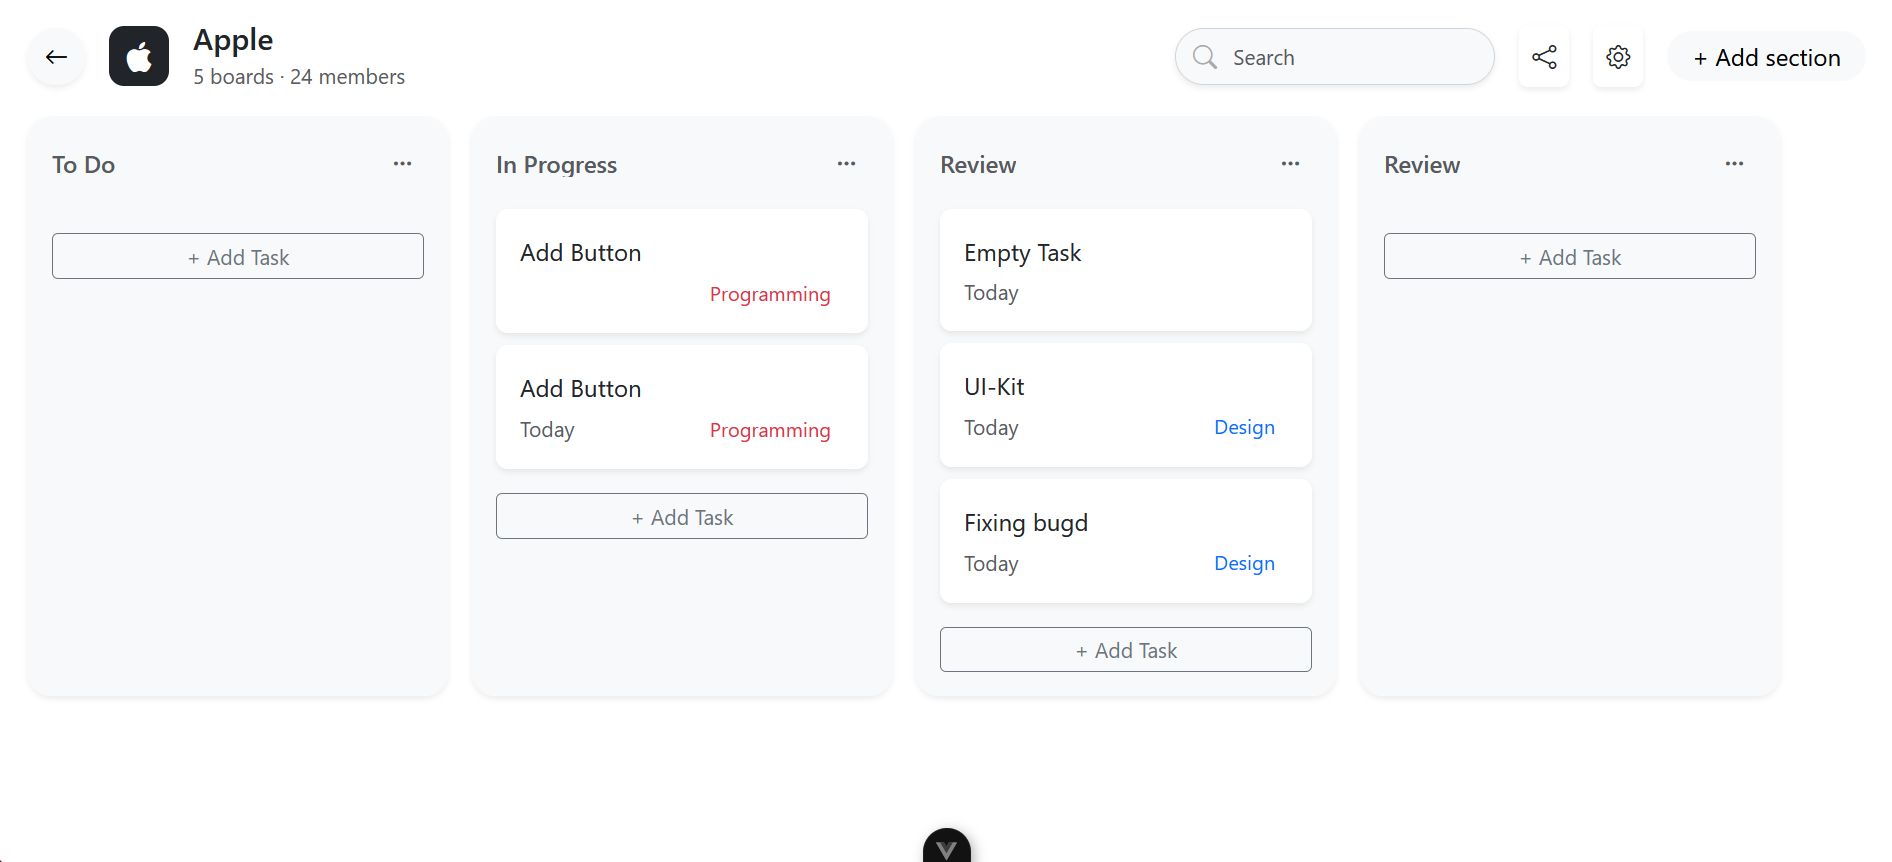
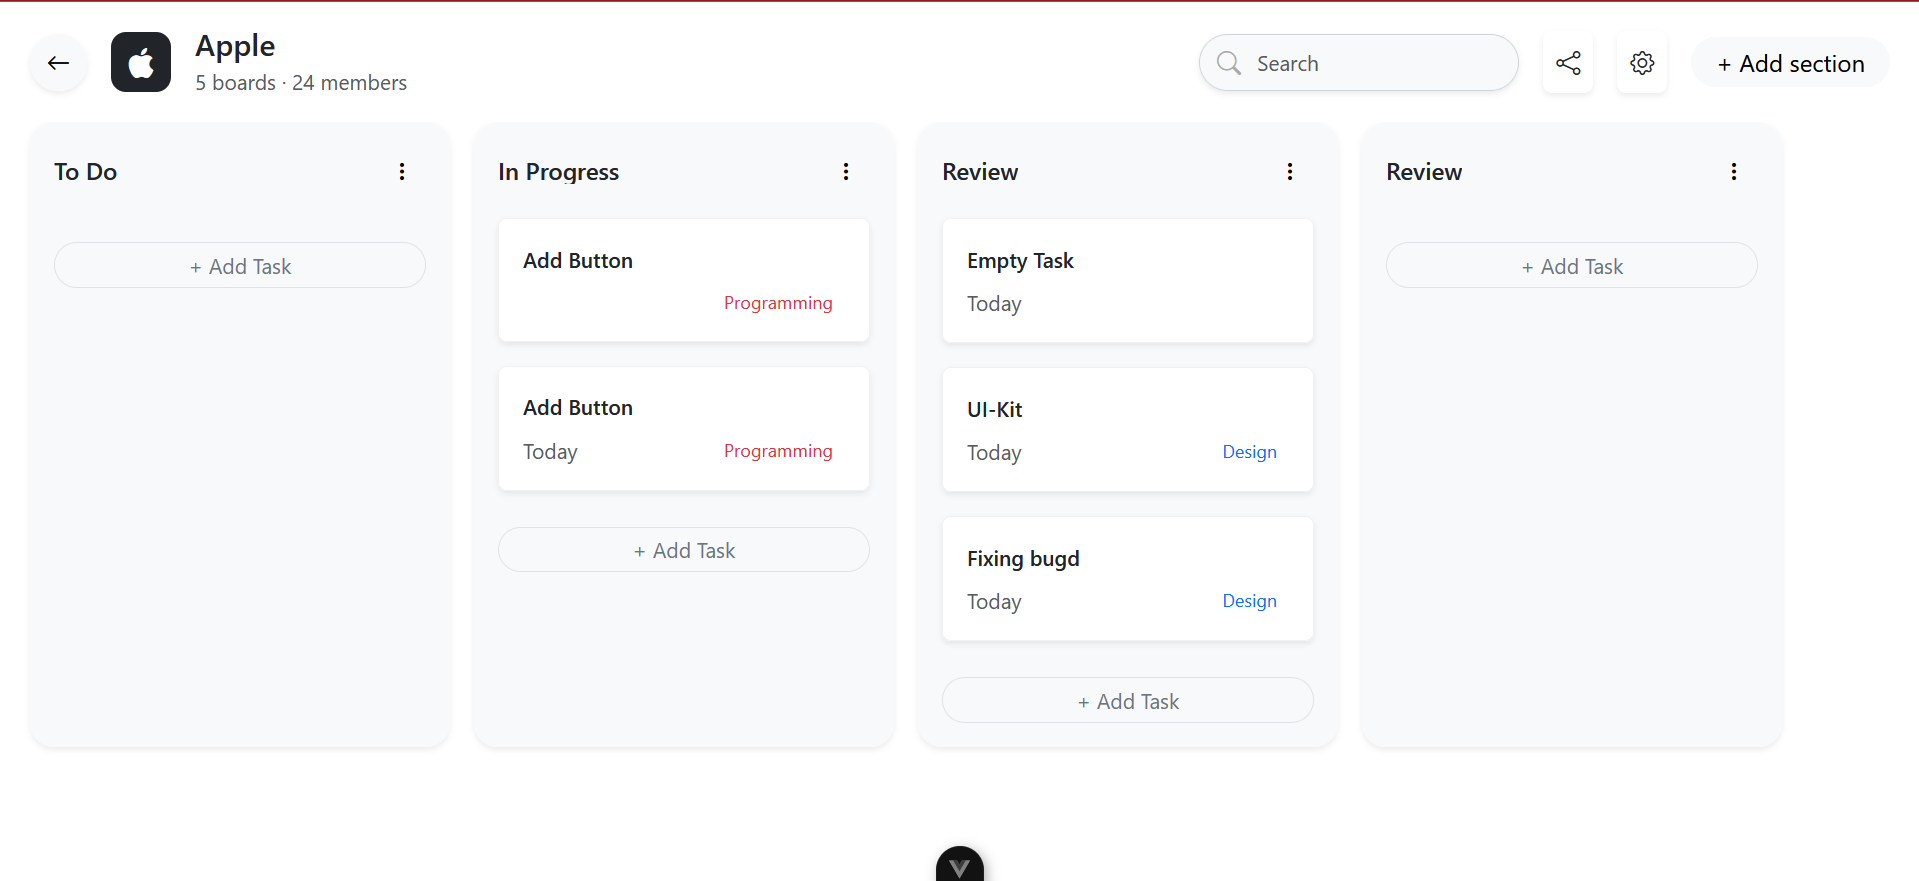
Refactor Board and Section components for improved styling and layout; enhance Task component with better text visibility and hover effects

diff --git a/vue-kanban-app/src/components/Section.vue b/vue-kanban-app/src/components/Section.vue
@@ -1,25 +1,23 @@
 <template>
 	<div
-		class="bg-light p-3 rounded-4 shadow-sm"
+		class="section-wrapper bg-light p-3 rounded-4 shadow-sm d-flex flex-column"
 		style="min-width: 280px; max-width: 350px"
 	>
 		<!-- Header -->
-		<div
-			class="d-flex justify-content-between align-items-center mb-3 text-muted"
-		>
-			<h6 class="mb-0 text-capitalize fw-semibold text-truncate">
+		<div class="d-flex justify-content-between align-items-center mb-3">
+			<h6
+				class="mb-0 text-capitalize fw-semibold text-truncate text-dark"
+			>
 				{{ section.title }}
 			</h6>
-			<div class="d-flex align-items-center gap-1 text-muted">
-				<button
-					class="btn btn-sm btn-light text-muted"
-					style="width: 30px; height: 30px"
-					title="Section Options"
-					@click="showModal = true"
-				>
-					<i class="bi bi-three-dots"></i>
-				</button>
-			</div>
+			<button
+				class="btn btn-sm btn-light rounded-circle"
+				style="width: 32px; height: 32px"
+				title="Section Options"
+				@click="showModal = true"
+			>
+				<i class="bi bi-three-dots-vertical"></i>
+			</button>
 		</div>
 
 		<!-- Task List -->
@@ -30,7 +28,7 @@
 		<!-- Add Task Form -->
 		<div
 			v-if="addingTask"
-			class="d-flex flex-column gap-2 mt-3 bg-white p-2 border rounded shadow-sm"
+			class="bg-light p-3 mt-3 rounded-3 shadow-sm d-flex flex-column gap-2"
 		>
 			<input
 				type="text"
@@ -74,9 +72,11 @@
 				</button>
 			</div>
 		</div>
+
+		<!-- Add Task Button -->
 		<button
 			v-else
-			class="btn btn-outline-secondary btn-sm w-100 mt-3"
+			class="btn btn-outline-secondary btn-sm mt-3 rounded-pill"
 			@click="addingTask = true"
 		>
 			+ Add Task
@@ -246,10 +246,34 @@ export default {
 </script>
 
 <style scoped>
+.section-wrapper {
+	background-color: #f8f9fa;
+	transition: box-shadow 0.2s ease;
+}
+
+.section-wrapper:hover {
+	box-shadow: 0 0 0 2px rgba(0, 0, 0, 0.03), 0 2px 6px rgba(0, 0, 0, 0.06);
+}
+
 .modal {
 	z-index: 1050;
 }
+
 .modal-backdrop {
 	z-index: 1040;
+}
+
+button.btn-outline-secondary {
+	border-color: #dee2e6;
+}
+
+button.btn-outline-secondary:hover {
+	background-color: #f1f3f5;
+	border-color: #ced4da;
+}
+
+input,
+textarea {
+	border-radius: 0.5rem;
 }
 </style>

diff --git a/vue-kanban-app/src/components/Task.vue b/vue-kanban-app/src/components/Task.vue
@@ -1,13 +1,14 @@
 <template>
-	<div class="task-card bg-white rounded-3 shadow-sm p-3">
-		<p class="mb-1 fw-medium">{{ task.title }}</p>
+	<div class="task-card bg-white rounded-2 shadow-sm p-3 mb-2">
+		<p class="mb-2 fw-semibold text-dark text-sm">{{ task.title }}</p>
 		<div class="d-flex justify-content-between align-items-center">
-			<small class="text-muted">{{ formatDate(task.createdAt) }}</small>
+			<small :class="['text-muted', 'text-sm']">
+				{{ formatDate(task.createdAt) }}
+			</small>
 			<span
 				v-if="task.tag"
-				class="badge"
+				class="badge rounded-pill px-2 py-1"
 				:class="getTagClass(task.tag)"
-				style="font-size: smaller; font-weight: 400"
 			>
 				{{ task.tag }}
 			</span>
@@ -46,7 +47,7 @@ export default {
 				Programming: "text-danger",
 				Managing: "text-success",
 			};
-			return map[tag] || "text-secondary";
+			return map[tag] || "bg-secondary-subtle text-secondary";
 		},
 	},
 };
@@ -55,5 +56,22 @@ export default {
 <style scoped>
 .task-card {
 	transition: transform 0.2s ease;
+	border: 1px solid #f1f1f1;
+	cursor: grab;
+}
+
+.task-card:hover {
+	transform: scale(1.01);
+	box-shadow: 0 4px 12px rgba(0, 0, 0, 0.05);
+}
+
+.text-sm {
+	font-size: 0.875rem;
+}
+
+.badge {
+	font-size: 0.75rem;
+	font-weight: 500;
 }
 </style>
+

diff --git a/vue-kanban-app/src/components/Board.vue b/vue-kanban-app/src/components/Board.vue
@@ -1,7 +1,6 @@
 <template>
 	<div
-		class="d-flex flex-row overflow-auto gap-3 px-3 pt-3 pb-4 bg-light"
-		style="min-height: 80vh"
+		class="kanban-container d-flex flex-row gap-4 px-4 pt-4 pb-5 bg-light"
 		aria-label="Kanban sections container"
 	>
 		<Section
@@ -13,18 +12,22 @@
 	</div>
 </template>
 
-<script>
-import Section from "./Section.vue";
+<style scoped>
+.kanban-container {
+	min-height: 80vh;
+	overflow-x: auto;
+	scroll-behavior: smooth;
+	padding-bottom: 2rem;
+}
 
-export default {
-	props: {
-		sections: {
-			type: Array,
-			required: true,
-		},
-	},
-	components: {
-		Section,
-	},
-};
-</script>
+.kanban-container::-webkit-scrollbar {
+	height: 8px;
+}
+.kanban-container::-webkit-scrollbar-thumb {
+	background-color: rgba(0, 0, 0, 0.1);
+	border-radius: 4px;
+}
+.kanban-container::-webkit-scrollbar-track {
+	background: transparent;
+}
+</style>
